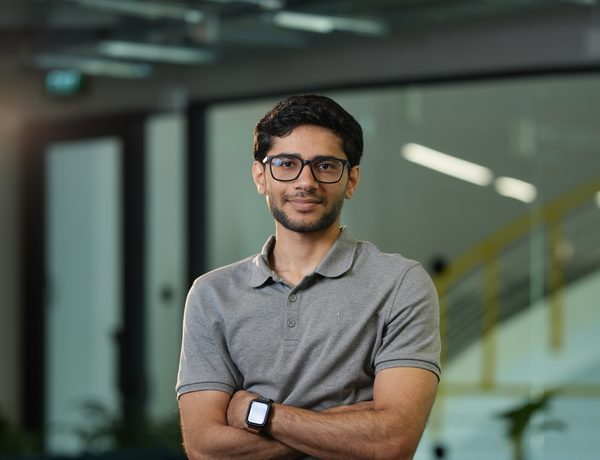
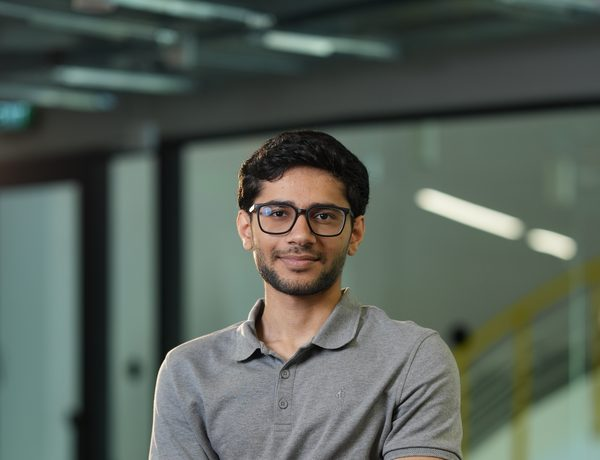
Candidate photos: framed from the face, not from a fixed point in the frame
Sairaj, Akash, Archit and Rishika were all missing the top of their heads on
the ballot. Not a crop the card was making — the imported files themselves had
already lost it, so no amount of object-position could put it back.

`optimise-photo.py` cut every photograph to 600x460 from a point a third of the
way down the source, and the shoot is full length: each candidate seated on a
stool with a metre of air above them and another below their shoes. Anyone who
sat taller than the person that number was tuned on lost their hair to it.

The crop is now two separate decisions. HOW BIG comes from the face — six face
widths — so a photo shot from further back still lands at the scale everyone
else is at. WHERE comes from the top of the photograph: every pixel above the
head is kept and the surplus comes off the bottom, which is floor and stool.
A head cannot be cut, because there is nothing above the top edge to cut it
with. Only the shoulders can push the window down, and only far enough to keep
them in frame.

Detection is best-effort — no OpenCV, no model, or no findable face falls back
to a plain top-aligned crop — so a machine that cannot run it still imports.

Two photographs needed the camera pulled back by hand, and they are named in
the import's CROP_FACES: a detector measures a FACE, not a person. Hair falling
either side of Rishika's cheeks narrows her box, and Sairaj's rises well above
the eyebrow line the box stops at, so six of their widths was a tighter crop
[…]

diff --git a/scripts/optimise-photo.py b/scripts/optimise-photo.py
@@ -4,35 +4,184 @@ Crop and compress a candidate photograph for the ballot.
 
 The card shows the photo in a fixed-height box that changes width with the
 number of candidates, so the source is cover-cropped to a single size rather
-than letterboxed. The crop is biased UP: faces sit high in a portrait, and a
-centre crop cuts foreheads.
+than letterboxed.
 
     python3 scripts/optimise-photo.py <src> <dest.jpg> [width] [height]
+                                      [--anchor N]
+
+── Sized from the FACE, placed from the TOP ──
+
+The shoot is full-length: every candidate seated on a stool with a metre of
+room above their head and another below their shoes. Cutting from a fixed
+point in that frame is a lottery — a third of the way down (which this used to
+do) took the top of the head off Sairaj, Akash, Archit and Rishika, because
+they sat taller in the chair than the person the number was tuned on.
+
+Two separate decisions, and they are made differently:
+
+- **How big** the window is comes from the face: CROP_FACES face-widths wide.
+  Measured in faces rather than pixels so someone shot from further back still
+  lands at the scale everyone else is at — a row of faces at different sizes
+  reads as a badly made collage even when each photo is fine on its own.
+
+- **Where** it sits is the top of the photograph. Every pixel the source has
+  above the head is kept and the surplus comes off the BOTTOM, which is floor,
+  stool and shoes. Nothing is trimmed above a head that did not have to be, and
+  no head can be cut: there is nothing above the top edge to cut it with.
+
+The one thing that can push the window down is the shoulders. A photograph with
+a very high ceiling can hold so much room above the subject that a window
+pinned to the top edge would end at their chin, so the window drops by as much
+as it takes to keep CHIN_FACES below the jaw and no further.
+
+Detection is best-effort. Without OpenCV, without the model, or on a photo with
+no findable face, this falls back to a plain top-aligned cover crop — the same
+placement, minus the scaling that needs a face to measure.
+
+--anchor forces that fallback and moves it through the source: 0 keeps the very
+top of the photograph, 1 the very bottom. Use it for the one photo the detector
+reads wrongly, not as the default path.
 """
-import sys
+from __future__ import annotations
+
+import argparse
+import subprocess
+import tempfile
+from pathlib import Path
+
 from PIL import Image, ImageOps
 
 TARGET_W, TARGET_H = 600, 460
-# 0.5 would centre the crop; faces sit above centre, so favour the top.
-VERTICAL_ANCHOR = 0.32
+
+# ── The framing, in face widths ──
+#
+# Measured in face widths rather than pixels so a photo shot from further back
+# — or sent in from a phone — still lands at the scale everyone else is at. A
+# card full of faces at different sizes reads as a badly made collage even when
+# each photo is fine on its own.
+#
+# 6.0 puts head and shoulders in the frame with the background the shoot was
+# composed for still visible either side. Lower it and the crop closes in on
+# the face; raise it and the figure recedes.
+#
+# --faces overrides it for one photograph, which is what a detector's box being
+# a measurement of the FACE and not of the person is for: Rishika's hair falls
+# either side of her cheeks and the box comes back narrow, so 6 of those widths
+# is a tighter crop of her than of anybody else. See the import's CROP_FACES.
+CROP_FACES = 6.0
+# How much of the body below the jaw has to stay in frame, in face HEIGHTS.
+#
+# The only reason to move the window off the top edge. 1.4 keeps both shoulders
+# on a seated portrait; without it, a photograph with a tall ceiling above the
+# subject spends its whole window on air and ends at the chin.
+CHIN_FACES = 1.4
+
+# Where the window sits in the source: 0 is the very top, 1 the very bottom.
+# Used for the fallback crop, and as the placement the face-framed crop starts
+# from before the shoulders get a say.
+VERTICAL_ANCHOR = 0.0
+
+# The detector: 230KB of ONNX, fetched once into the system temp dir. It is not
+# vendored because it is only ever needed on the machine that imports photos,
+# and a build with no network simply takes the fallback crop instead.
+YUNET = Path(tempfile.gettempdir()) / 'yunet-face.onnx'
+YUNET_URL = (
+    'https://media.githubusercontent.com/media/opencv/opencv_zoo/main/models/'
+    'face_detection_yunet/face_detection_yunet_2023mar.onnx'
+)
+
+
+def face_box(image: Image.Image) -> tuple[int, int, int, int] | None:
+    """The largest face in the photo as (x, y, w, h), or None if there is none."""
+    try:
+        import cv2
+        import numpy as np
+    except ImportError:
+        return None
+
+    if not YUNET.exists():
+        try:
+            subprocess.run(
+                ['curl', '-sSL', '--max-time', '60', '-o', str(YUNET), YUNET_URL],
+                check=True,
+                capture_output=True,
+            )
+        except (subprocess.CalledProcessError, FileNotFoundError):
+            YUNET.unlink(missing_ok=True)
+            return None
+
+    # Detection runs on a 1024px copy — the originals are 40MP, and a face is
+    # no harder to find small. The box is scaled back up afterwards.
+    scale = min(1.0, 1024 / max(image.size))
+    small = image.resize((round(image.width * scale), round(image.height * scale)), Image.BILINEAR)
+    frame = cv2.cvtColor(np.array(small), cv2.COLOR_RGB2BGR)
+
+    try:
+        model = cv2.FaceDetectorYN.create(str(YUNET), '', (320, 320), 0.6, 0.3, 5000)
+        model.setInputSize((frame.shape[1], frame.shape[0]))
+        _, faces = model.detect(frame)
+    except cv2.error:
+        return None
+    if faces is None or len(faces) == 0:
+        return None
+
+    x, y, w, h = max(faces, key=lambda f: f[2] * f[3])[:4]
+    return round(x / scale), round(y / scale), round(w / scale), round(h / scale)
+
+
+def framed(image: Image.Image, box, width: int, height: int, faces: float = CROP_FACES) -> Image.Image:
+    """The output window placed around a face, in the source's own pixels."""
+    x, y, w, h = box
+    crop_w = w * faces
+    crop_h = crop_w * height / width
+
+    # A window wider or taller than the source shrinks to fit rather than
+    # padding: bars would be the most conspicuous thing on the card. The face
+    # then sits larger than everyone else's, which is the smaller fault.
+    fit = min(image.width / crop_w, image.height / crop_h, 1.0)
+    crop_w *= fit
+    crop_h *= fit
+
+    left = (x + w / 2) - crop_w / 2
+    # The top of the photograph, and down from there only far enough to keep
+    # the shoulders — see CHIN_FACES. The surplus comes off the bottom.
+    top = max(0, (y + h + CHIN_FACES * h) - crop_h)
+    left = max(0, min(left, image.width - crop_w))
+    top = min(top, image.height - crop_h)
+
+    return image.crop(
+        (round(left), round(top), round(left + crop_w), round(top + crop_h))
+    ).resize((width, height), Image.LANCZOS)
 
 
 def main() -> None:
-    src, dest = sys.argv[1], sys.argv[2]
-    width = int(sys.argv[3]) if len(sys.argv) > 3 else TARGET_W
-    height = int(sys.argv[4]) if len(sys.argv) > 4 else TARGET_H
+    parser = argparse.ArgumentParser(description=__doc__)
+    parser.add_argument('src')
+    parser.add_argument('dest')
+    parser.add_argument('width', nargs='?', type=int, default=TARGET_W)
+    parser.add_argument('height', nargs='?', type=int, default=TARGET_H)
+    parser.add_argument('--anchor', type=float, default=None)
+    parser.add_argument('--faces', type=float, default=CROP_FACES)
+    args = parser.parse_args()
 
-    image = Image.open(src)
+    image = Image.open(args.src)
     # Phone photos carry rotation in EXIF; without this some arrive sideways.
     image = ImageOps.exif_transpose(image)
     image = image.convert('RGB')
 
-    ImageOps.fit(
-        image,
-        (width, height),
-        method=Image.LANCZOS,
-        centering=(0.5, VERTICAL_ANCHOR),
-    ).save(dest, 'JPEG', quality=82, optimize=True, progressive=True)
+    box = None if args.anchor is not None else face_box(image)
+    if box is None:
+        shot = ImageOps.fit(
+            image,
+            (args.width, args.height),
+            method=Image.LANCZOS,
+            centering=(0.5, VERTICAL_ANCHOR if args.anchor is None else args.anchor),
+        )
+    else:
+        shot = framed(image, box, args.width, args.height, args.faces)
+
+    # No `exif=`: the camera, the time and any GPS stay out of what ships.
+    shot.save(args.dest, 'JPEG', quality=82, optimize=True, progressive=True)
 
 
 if __name__ == '__main__':

diff --git a/assets/candidate-photos/README.md b/assets/candidate-photos/README.md
@@ -34,10 +34,13 @@ shows up immediately rather than silently leaving someone blank.
 
 ## What makes a good photo
 
-- **Portrait or square.** The card crops to a wide box, biased upward — faces
-  sit high in a portrait, and a centre crop cuts foreheads.
+- **Any framing.** The import finds the face and crops around it, so a
+  full-length photo and a head-and-shoulders one both come out at the same
+  size with the same clear space above the head. You do not need to crop
+  anything yourself.
+- **One person in the photo.** With two faces in frame the crop goes to the
+  larger one, which may not be the candidate.
 - **At least 600px wide.** Bigger is fine; everything is resized down.
-- **Head and shoulders, face roughly centred left to right.**
 - JPG, PNG or WebP. Photos straight off a phone are fine — sideways ones are
   rotated automatically.
 
